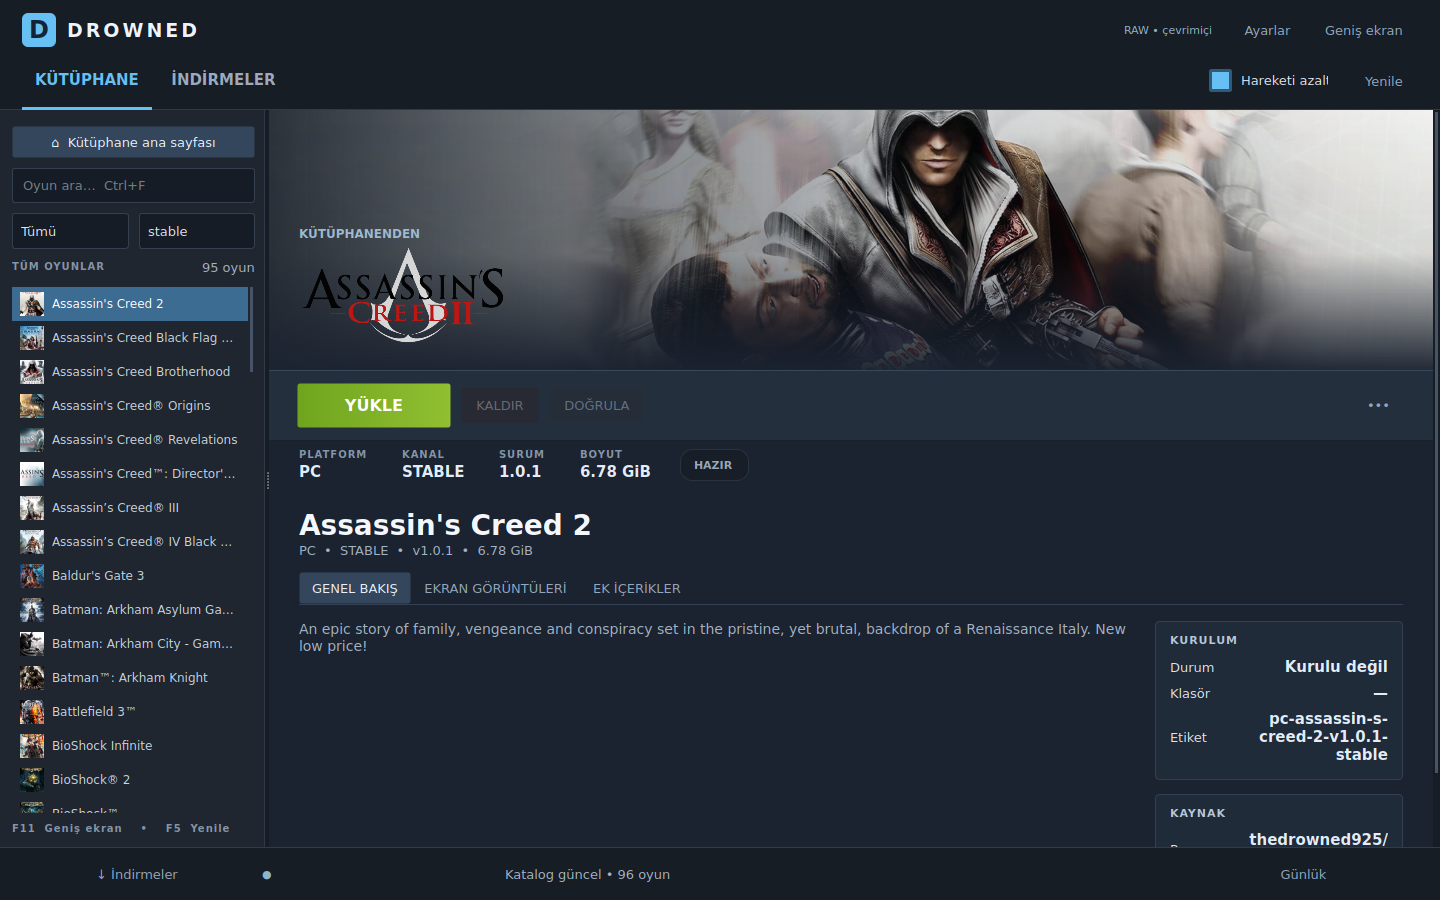
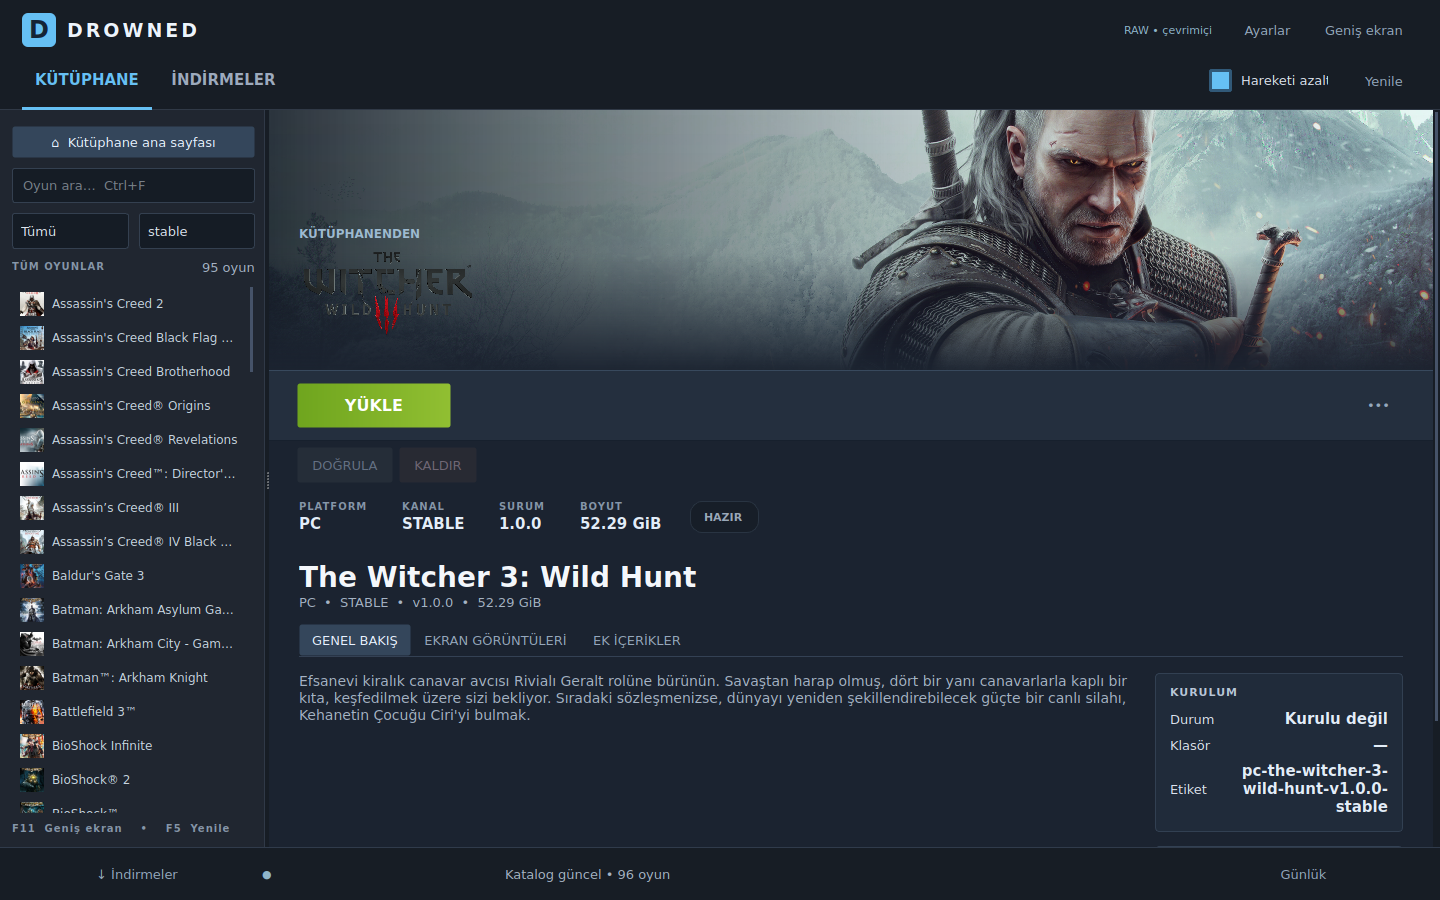
Fix Steam preview Windows layout and transfer UI lifecycle
Separate game actions and adapt detail columns to narrow windows. Ignore stale cover responses, retain filtered card progress, reset transfer metrics, and stop transitions when reducing motion.

Validated 100 tests with native Qt enabled; update screenshots and continuation notes.

diff --git a/windows/launcher/app_steam.py b/windows/launcher/app_steam.py
@@ -14,7 +14,7 @@ import sys
 from PySide6.QtCore import QEvent, QSettings, QTimer, Qt
 from PySide6.QtGui import QColor, QKeySequence, QPalette, QPixmap, QShortcut
 from PySide6.QtWidgets import (
-    QApplication, QCheckBox, QComboBox, QFileDialog, QFrame, QGridLayout,
+    QApplication, QBoxLayout, QCheckBox, QComboBox, QFileDialog, QFrame, QGridLayout,
     QHBoxLayout, QLabel, QLineEdit, QListWidget, QMenu, QMessageBox,
     QPlainTextEdit, QProgressBar, QScrollArea, QSizePolicy, QSplitter,
     QStackedWidget, QVBoxLayout, QWidget,
@@ -24,7 +24,7 @@ import app_v12 as functional
 import app_v10 as BASE
 from steam_desktop_widgets import STYLE, ControllerGrid, DesktopList, FadeStack, LibraryCard, MotionButton, SteamHero, TransferGraph
 
-APP_VERSION = '0.19.0-preview'
+APP_VERSION = '0.19.1-preview'
 
 
 def apply_palette(app):
@@ -74,6 +74,7 @@ class Launcher(functional.Launcher):
         self._view_ready = False
         self._home_installed_only = False
         self._cover_pending = set()
+        self._card_progress = {}
         # New presentation preferences are deliberately outside the legacy keys.
         self.desktop_preferences = QSettings('Drowned', 'LauncherSteamDesktop')
         super().__init__()
@@ -269,6 +270,7 @@ class Launcher(functional.Launcher):
         layout = page.layout()
         old = self.hero
         layout.removeWidget(old)
+        old.hide()
         old.deleteLater()
         self.hero = SteamHero()
         layout.insertWidget(0, self.hero)
@@ -307,12 +309,16 @@ class Launcher(functional.Launcher):
             old.deleteLater()
             setattr(self, attr, replacement)
         self.description.setMinimumWidth(120)
+        self.meta.setWordWrap(True)
         self.title.setWordWrap(True)
         self.title.setTextFormat(Qt.PlainText)
         self.description.setTextFormat(Qt.PlainText)
         scroller = QScrollArea()
         scroller.setWidgetResizable(True)
         scroller.setWidget(page)
+        self.detail_columns = containing_layout(self.detail_stack.parentWidget().layout(), self.detail_stack)
+        self.detail_viewport = scroller.viewport()
+        self.detail_viewport.installEventFilter(self)
         return scroller
 
     def _finish_details(self):
@@ -323,6 +329,24 @@ class Launcher(functional.Launcher):
         self.verify_button.setText('DOĞRULA')
         self.uninstall_button.setMinimumWidth(65)
         self.install_button.setMinimumWidth(95)
+        # Constructors in v7/v8 insert maintenance buttons after _build_ui.
+        # Give them their own row: Windows font metrics make a single row of
+        # PLAY / INSTALL / VERIFY / UNINSTALL wider than the detail viewport.
+        action_bar = self.info_card.parentWidget()
+        page_layout = action_bar.parentWidget().layout()
+        maintenance = QWidget()
+        maintenance_layout = QHBoxLayout(maintenance)
+        maintenance_layout.setContentsMargins(28, 6, 28, 10)
+        for native in (self.verify_button, self.uninstall_button):
+            self.info_card.layout().removeWidget(native)
+            maintenance_layout.addWidget(native)
+        maintenance_layout.addStretch()
+        page_layout.insertWidget(page_layout.indexOf(action_bar) + 1, maintenance)
+        # Transfer controls must also fit while an installed game is updating.
+        action_bar.layout().removeWidget(self.action_dl)
+        self.action_dl.layout().setContentsMargins(28, 8, 28, 10)
+        self.action_dl.layout().addStretch()
+        page_layout.insertWidget(page_layout.indexOf(maintenance) + 1, self.action_dl)
         self.addon_panel.setMaximumWidth(16777215)
         # Keep the original package controls, presented as an actual detail tab.
         self.addon_panel.parentWidget().layout().removeWidget(self.addon_panel)
@@ -334,12 +358,19 @@ class Launcher(functional.Launcher):
 
     def _build_side_panels(self):
         panels = BASE.Launcher._build_side_panels(self)
+        self.detail_side_panels = panels
         panels.setFixedWidth(248)
         # Paths can be long; wrap them without imposing a window-wide minimum.
         self.panel_path.setWordWrap(True)
         self.panel_path.setMinimumWidth(0)
         self.panel_path.setTextInteractionFlags(Qt.TextSelectableByMouse)
         return panels
+
+    def _layout_details(self):
+        compact = self.detail_viewport.width() < 880
+        self.detail_columns.setDirection(QBoxLayout.TopToBottom if compact else QBoxLayout.LeftToRight)
+        self.detail_side_panels.setMinimumWidth(0 if compact else 248)
+        self.detail_side_panels.setMaximumWidth(16777215 if compact else 248)
 
     def _build_downloads_page(self):
         page = QFrame()
@@ -560,6 +591,7 @@ class Launcher(functional.Launcher):
             card = self._cards[key]
             card.title = title
             card.installed = key in installed
+            card.percent = self._card_progress.get(key)
             card.motion_enabled = not self.motion_toggle.isChecked()
             card.setAccessibleName(title)
             card.setToolTip(title)
@@ -597,6 +629,8 @@ class Launcher(functional.Launcher):
     def eventFilter(self, watched, event):
         if watched is getattr(self, 'shelf', None) and event.type() == QEvent.Resize:
             self._layout_shelf()
+        if watched is getattr(self, 'detail_viewport', None) and event.type() == QEvent.Resize:
+            self._layout_details()
         return super().eventFilter(watched, event)
 
     def _request_shelf_covers(self, *_):
@@ -619,11 +653,34 @@ class Launcher(functional.Launcher):
     def _apply_cover(self, key, pixmap):
         super()._apply_cover(key, pixmap)
         if key in self._cards:
+            self._cover_pending.discard((key, self._cards[key].cover_url))
             self._cards[key].pixmap = pixmap
             self._cards[key].update()
 
+    def _cover_loaded(self, key, url, raw):
+        self._cover_pending.discard((key, url))
+        pixmap = QPixmap()
+        if not raw or not pixmap.loadFromData(raw):
+            return
+        self._tile_cover_cache[url] = pixmap
+        # A catalog refresh can change the artwork URL while a request is in
+        # flight. Apply to each view only if it still expects this exact URL.
+        for view in (self.library_grid, self.library_grid_bp):
+            item = view._items.get(key)
+            if item is not None and item.cover_url == url:
+                view.set_tile_cover(key, pixmap)
+                view._sync_item_motion()
+        card = self._cards.get(key)
+        if card is not None and card.cover_url == url:
+            card.pixmap = pixmap
+            card.update()
+
     def _set_tile_progress(self, key, percent):
         super()._set_tile_progress(key, percent)
+        if percent is None:
+            self._card_progress.pop(key, None)
+        elif key:
+            self._card_progress[key] = percent
         if key in self._cards:
             self._cards[key].percent = percent
             self._cards[key].update()
@@ -671,7 +728,23 @@ class Launcher(functional.Launcher):
 
     def _set_download_controls(self, active):
         super()._set_download_controls(active)
+        if active:
+            self.transfer_graph.clear()
+            self._reset_transfer_metrics()
         self._sync_desktop_state()
+
+    def _reset_transfer_metrics(self):
+        for metric in (self.dlp_net, self.dlp_peak, self.dlp_streams, self.dlp_bytes):
+            metric.setText('—')
+        self.dlp_percent.setText('%0')
+        self.dlp_bar.setValue(0)
+        self.dlp_eta.setText('Kalan tahmini süre: —')
+
+    def _clear_active_download_ui(self, message):
+        super()._clear_active_download_ui(message)
+        self.transfer_graph.clear()
+        self._reset_transfer_metrics()
+        self.dlp_hero.set_hero(None)
 
     def show_empty_state(self, title, description):
         super().show_empty_state(title, description)
@@ -755,8 +828,17 @@ class Launcher(functional.Launcher):
         self.motion_toggle.setChecked(reduced)
         self.motion_toggle.blockSignals(False)
         self.right_stack.motion_enabled = not reduced
+        if reduced:
+            self.right_stack._fade.stop()
+            self.right_stack._effect.setOpacity(1)
         for widget in self.findChildren(MotionButton) + self.findChildren(LibraryCard):
             widget.motion_enabled = not reduced
+            if reduced:
+                if isinstance(widget, MotionButton):
+                    widget._motion.stop()
+                else:
+                    widget._animation.stop()
+                    widget._frame(0)
         for hero in (self.hero, self.home_hero):
             hero.motion_enabled = not reduced
             hero._update_motion()

diff --git a/tests/test_launcher_steam.py b/tests/test_launcher_steam.py
@@ -17,7 +17,7 @@ ROOT = Path(__file__).resolve().parents[1]
 # Headless only when explicitly running tests, never in the launcher entry point.
 os.environ.setdefault('QT_QPA_PLATFORM', 'offscreen')
 try:
-    from PySide6.QtCore import QSettings, Qt
+    from PySide6.QtCore import QAbstractAnimation, QBuffer, QIODevice, QSettings, Qt
     from PySide6.QtGui import QPixmap
     from PySide6.QtTest import QTest
     from PySide6.QtWidgets import QApplication, QCheckBox
@@ -166,6 +166,63 @@ class LauncherSteamTests(unittest.TestCase):
         self.win.artwork_loaded('obsolete', {'hero': b'invalid'})
         self.assertEqual(self.win.home_hero.hero.cacheKey(), expected)
 
+    def test_cover_refresh_ignores_stale_responses_and_releases_failed_requests(self):
+        key = self.win._home_rows[0][0]
+        current = self.win.library.item(0).data(Qt.UserRole)[0]
+        current['artwork'] = {'cover': 'https://example.invalid/new.png'}
+        self.win.library.item(0).setData(Qt.UserRole, (current, 'stable'))
+        self.win._refresh_shelf()
+        self.win.library_grid.set_items([(key, current, 'stable')])
+        self.win.library_grid_bp.set_items([(key, current, 'stable')])
+        image = QPixmap(20, 20)
+        image.fill(Qt.red)
+        buffer = QBuffer()
+        buffer.open(QIODevice.WriteOnly)
+        image.save(buffer, 'PNG')
+        raw = bytes(buffer.data())
+        new_url = current['artwork']['cover']
+        self.win._cover_pending.add((key, new_url))
+        self.win._cover_loaded(key, 'https://example.invalid/old.png', raw)
+        self.assertTrue(self.win._cards[key].pixmap.isNull())
+        self.win._cover_loaded(key, new_url, None)
+        self.assertNotIn((key, new_url), self.win._cover_pending)
+        self.win._cover_loaded(key, new_url, raw)
+        self.assertFalse(self.win._cards[key].pixmap.isNull())
+        self.assertIn(new_url, self.win._tile_cover_cache)
+
+    def test_filtered_transfer_card_recovers_progress_when_shown_again(self):
+        key = self.win._home_rows[0][0]
+        self.win._set_tile_progress(key, 37)
+        self.win._set_home_filter(True)
+        self.assertNotIn(key, self.win._cards)
+        self.win._set_home_filter(False)
+        self.assertEqual(self.win._cards[key].percent, 37)
+        self.win._set_tile_progress(key, None)
+        self.assertIsNone(self.win._cards[key].percent)
+
+    def test_reduce_motion_stops_an_in_progress_page_transition(self):
+        self.win._apply_motion(False)
+        self.win.show_current_game()
+        self.win._motion_changed(True)
+        self.assertEqual(self.win.right_stack._effect.opacity(), 1)
+        self.assertEqual(self.win.right_stack._fade.state(), QAbstractAnimation.State.Stopped)
+
+    def test_transfer_start_and_finish_clear_previous_metrics(self):
+        from drowned_shared.install import DownloadControl
+        self.win.download_control = DownloadControl()
+        self.addCleanup(setattr, self.win, 'download_control', None)
+        self.win.install_progress(70, '70 MiB / 100 MiB • 12 MiB/sn • 4 stream')
+        self.win._set_download_controls(True)
+        self.assertEqual(len(self.win.transfer_graph.samples), 0)
+        self.assertEqual(self.win.dlp_peak.text(), '—')
+        self.assertEqual(self.win.dlp_bar.value(), 0)
+        self.win.install_progress(20, '20 MiB / 100 MiB • 2 MiB/sn • 4 stream')
+        self.assertEqual(self.win.dlp_peak.text(), '2 MiB/sn')
+        self.win._clear_active_download_ui('Tamamlandı')
+        self.assertEqual(len(self.win.transfer_graph.samples), 0)
+        self.assertEqual(self.win.dlp_net.text(), '—')
+        self.assertEqual(self.win.dlp_percent.text(), '%0')
+
     def test_transfer_metrics_and_pause_mirror_existing_control(self):
         from drowned_shared.install import DownloadControl
         self.win._active_install_context = {'key': self.win._key(self.win.current_game, 'stable'), 'title': 'Alpha', 'channel': 'stable'}
@@ -231,6 +288,27 @@ class LauncherSteamTests(unittest.TestCase):
             self.assertGreaterEqual(left, 0, widget.text())
             self.assertLessEqual(left + widget.width(), viewport.width(), widget.text())
         self.assertEqual(self.win.right_stack.widget(0).horizontalScrollBar().maximum(), 0)
+
+    def test_narrow_details_fit_with_wide_sidebar_and_active_update(self):
+        from drowned_shared.install import DownloadControl
+        self.install_record(0)
+        self.win.update_install_state_ui()
+        self.win.resize(1080, 700)
+        self.win.main_splitter.setSizes([370, 710])
+        self.win.download_control = DownloadControl()
+        self.addCleanup(setattr, self.win, 'download_control', None)
+        self.win._set_download_controls(True)
+        self.win.show_current_game()
+        self.app.processEvents()
+        page = self.win.right_stack.widget(0)
+        viewport = page.viewport()
+        for widget in (self.win.play_button, self.win.install_button, self.win.verify_button,
+                       self.win.uninstall_button, self.win.game_menu_button, self.win.action_pause):
+            with self.subTest(button=widget.text()):
+                left = widget.mapTo(viewport, widget.rect().topLeft()).x()
+                self.assertGreaterEqual(left, 0)
+                self.assertLessEqual(left + widget.width(), viewport.width())
+        self.assertEqual(page.horizontalScrollBar().maximum(), 0)
 
     def test_big_picture_escape_restores_desktop_page(self):
         self.win.show_home()

diff --git a/windows/launcher/steam_desktop_widgets.py b/windows/launcher/steam_desktop_widgets.py
@@ -342,6 +342,10 @@ class TransferGraph(QFrame):
         self.samples.append(max(0, float(speed)))
         self.update()
 
+    def clear(self):
+        self.samples.clear()
+        self.update()
+
     def paintEvent(self, event):
         p = QPainter(self)
         p.setRenderHint(QPainter.Antialiasing)
@@ -380,6 +384,15 @@ from library_navigation import GameListView as _GameListView, GameGridView as _G
 
 class _ViewportMotion:
     motion_enabled = True
+
+    def set_items(self, rows):
+        for key, game, _ in rows:
+            item = self._items.get(key)
+            url = str((game.get('artwork') or {}).get('cover') or '')
+            if item is not None and item.cover_url != url:
+                item.set_cover(None)
+                item.cover_requested = False
+        super().set_items(rows)
 
     def set_motion_enabled(self, enabled):
         self.motion_enabled = enabled

diff --git a/docs/launcher-steam/README.md b/docs/launcher-steam/README.md
@@ -3,6 +3,26 @@
 Steam tarzında, PySide6 ile hazırlanmış yerel Windows launcher. Geliştirme dalı:
 `feat/launcher-steam-desktop`. Giriş noktası `windows/launcher/app_steam.py`.
 
+## Devam çalışması — 0.19.1-preview
+
+7 Eylül 2026 tarihli ilk Windows önizleme çalışması, küçük pencere testinde
+oyun seçenekleri düğmesi sağ kenardan taştığı için durdu; `.exe` ve artifact
+adımları çalışmadı. Bu sürümde:
+
+- Oyna/kurulum, doğrulama/kaldırma ve aktif indirme kontrolleri ayrı satırlarda.
+- Dar detay görünümünde kurulum bilgileri açıklamanın altına geçer; geniş
+  görünümde sağ sütunda kalır. Sol liste genişletildiğinde de yatay taşma olmaz.
+- Katalog yenilenirken eski kapak yanıtları yeni görseli ezmez; değişen kapak
+  adresi listelerde yeniden yüklenir ve başarısız raf isteği tekrar denenebilir.
+- Kurulu filtresiyle gizlenip tekrar gösterilen kart indirme ilerlemesini korur.
+- Yeni aktarımda ve aktarım bittiğinde hız grafiği ile eski ölçümler temizlenir.
+- Hareketi azalt seçildiğinde devam eden sayfa geçişi hemen durur.
+
+Regresyon testlerine geniş sol listeyle aktif güncelleme, kapak yanıt sırası,
+filtre sonrası ilerleme, aktarım sıfırlama ve hareket tercihi senaryoları eklendi.
+Ekran görüntüleri mevcut katalog ve yerel artwork ile yenilendi; indirmeler
+görseli boş/etkin aktarım olmayan durumu gösterir.
+
 ## Kapsam ve uyumluluk
 
 Bu dal mevcut dosyaları değiştirmeden yeni launcher dosyaları, testler ve ayrı bir
